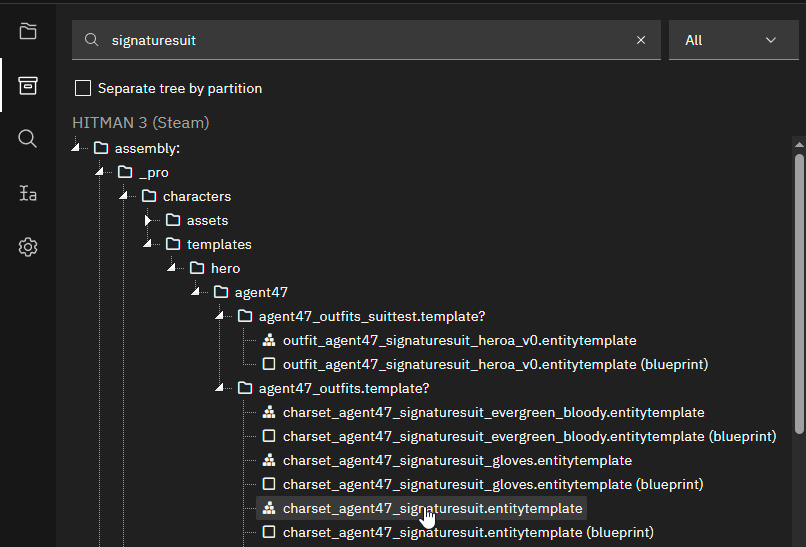
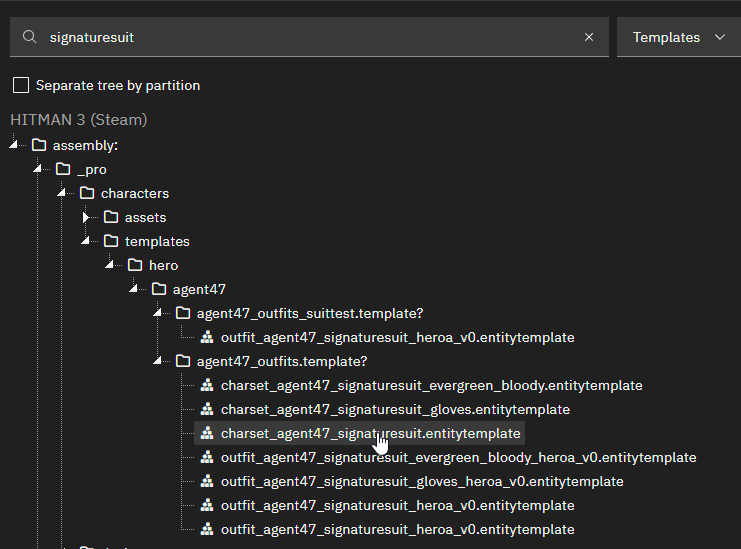
Suit modding guide: Options patches (#44)
* Fix ugly lowercase and snake case

* Set filter to Templates when searching for that...

* Options patches for suit mods

* Warn about alphabetical order with relation to patches

Changed region(s): [[0.0, 0.0, 1.0, 0.9945], [0.0931, 0.9945, 0.1552, 1.0], [0.0, 0.4351, 0.0621, 0.4662]]

diff --git a/docs/modding/hitman/guides/suitmodding/options.md b/docs/modding/hitman/guides/suitmodding/options.md
@@ -1,0 +1,120 @@
+---
+sidebar_position: 7
+description: Going into options patches for mods
+---
+
+# Options Patches
+
+## Introduction
+
+Options are a way to let the user of your mod tweak their experience. For an outfit mod this might be different colors, gloves, accessories and so on. This is achieved by segmenting different entities and patches into different content folders, and by way of options, selectively applying these.
+
+Let us take our [Street Smart](./newoutfit.md) outfit and introduce a pair of gloves to it, with an option.
+
+## Requirements
+
+First off you actually *cannot* use GlacierKit for this as it does not presently have the ability to patch custom entities, only stock game entities. You will need to download the legacy [QuickEntity Editor](https://github.com/atampy25/quickentity-editor-next/releases/latest/) to make options for your custom entities. So download it now and install it.
+
+## Preparing
+
+In your mod folder `MyName.StreetSmart`, create a new folder called `patches`. In that folder, make a folder called `gloves`. In that folder, make a folder called `leather`. In that folder, make a folder called `chunk0`.
+
+That's `patches` ➡ `gloves` ➡ `leather` ➡ `chunk0`.
+
+:::caution Alphabetical order
+
+Simple Mod Framework will apply all content folders, even those by way of options, in **alphabetical order**. This means that any patches you make to custom entities will need to be in a folder that is alphabetically *after* the base content folder. This is also good to know for patches that depend on other patches. In our case `content` comes before `patches`, if we don't take care to order the content folders properly Simple Mod Framework will error out as it cannot patch an entity that doesn't yet exist according to it.
+
+:::
+
+Next, we can prepare our manifest. Open your `manifest.json`, and make a new array called `options`.
+
+![A new options array in our manifest](/img/suitmodding/options/new_options_array.png)
+
+`options` is an array of objects, and our first option will look like this:
+
+```json
+    {
+      "group": "Gloves",
+      "name": "No gloves",
+      "type": "select",
+      "enabledByDefault": true,
+      "tooltip": "Don't use gloves."
+    }
+```
+
+Let's break it down.
+- `group` - This option is part of the "Gloves" group.
+- `name` - This option is named "No gloves".
+- `type` - This is a radio button "select" type of option. Only one **select** type of option can be active at a time in an options group. Other options are `checkbox` and `conditional`, conditionals are a little complicated but makes an option apply, as an example, if a particular mod is in the load order.
+- `enabledByDefault` - If true, the option will, you guessed it, be enabled by default.
+- `tooltip` - Some text that will display when the user mouses over the option.
+
+Another interesting property is `image` which will display an image for your option. For instance `"image": "leather_gloves.jpg"` will show the `leather_gloves.jpg` file in the mod folder.
+
+Most other base manifest keys apply to options including `contentFolders` and `blobsFolders`. You may have noticed that for this option we have not supplied one of these. This is because the base outfit doesn't have gloves, so we don't have to patch it. We only have to supply the `contentFolders` in our leather gloves option.
+
+With that let's make our second "Gloves" group option:
+
+```json
+    {
+      "group": "Gloves",
+      "name": "Leather gloves",
+      "type": "select",
+      "tooltip": "Leather gloves.",
+      "contentFolders": ["patches/gloves/leather"]
+    }
+```
+
+This is basically the same but with `contentFolders`, and `enabledByDefault` is gone. In our manifest the options will look like this.
+
+![Our options finished and present in the manifest](/img/suitmodding/options/options_done.png)
+
+## Making the Patch
+
+Now that the manifest is finished let's open QuickEntity Editor and patch our outfit.
+
+:::caution QuickEntity Editor
+
+This is legacy software and will no longer receive updates, as it has been superseded by GlacierKit. You should not use QuickEntity Editor for anything besides patching your custom entities. Keep GlacierKit open in another window if you need to browse game files or do anything else besides.
+
+:::
+
+With QuickEntity Editor open, click **Load** and choose **Load entity from file**. Navigate to your mod folder, go into `content`, `chunk0` and choose your `outfit` file.
+
+The tree will look like you're used to with GlacierKit. Expand the root outfit and click `Hands`.
+
+I already have a pair of gloves picked out I will show you here. Change the entity name from `Hands` to `Gloves_Leather`. Replace the factory and blueprint as below and introduce a `Diffuse_Color_01_Value` property with the `#2e2e2e` color. Feel free to copy below:
+
+```json
+	"factory": "[assembly:/_pro/characters/templates/_part_library/male_apparel/male_reg_apparel_hands.template?/gloves_leather.entitytemplate].pc_entitytype",
+	"blueprint": "[assembly:/_pro/characters/templates/_part_library/male_apparel/male_reg_apparel_hands.template?/gloves_leather.entitytemplate].pc_entityblueprint",
+	"properties": {
+		"Diffuse_Color_01_Value": {
+			"type": "SColorRGB",
+			"value": "#2e2e2e"
+		}
+	}
+```
+
+The new entity should look like below.
+
+![The Hands entity altered in QuickEntity Editor](/img/suitmodding/options/qne_edited.png)
+
+That's all we need to do, so click **Save as** and choose **Save as patch file**. Navigate to your mod folder, go into `patches` ➡ `gloves` ➡ `leather` ➡ `chunk0`. Save as `leather_gloves`.
+
+If you want to make more patches after this it's safest to re-load your outfit by clicking **Load** and choose **Load entity from file** after you save each patch.
+
+## Applying and testing
+
+Open Simple Mod Framework now and enable your mod in your load order if you haven't. Then go into **Configure mods** and make sure **Leather gloves** is picked. Apply your mod after this.
+
+![Picking the option in SMF](/img/suitmodding/options/choose_option.png)
+
+Now start the game and double check that the leather gloves have applied.
+
+![47 wearing his leather gloves.](/img/suitmodding/options/gloves_applied.jpg)
+
+If you want you can try turning off the leather gloves option, re-applying your mod and double checking that you have normal hands when the option is not selected.
+
+By leveraging the options system you can introduce wide swathes of configuration to your mods!

diff --git a/docs/modding/hitman/guides/suitmodding/newoutfit.md b/docs/modding/hitman/guides/suitmodding/newoutfit.md
@@ -142,7 +142,7 @@ Feel free to paste the following into your manifest to get started.
 
 ## The charset
 
-We carry on by making the suit's charset. We can use IOI's work as a base for this. In the game files tab search for `signaturesuit`. Under the `characters` folder you can minimize `assets` as we don't want anything in there.
+We carry on by making the suit's charset. We can use IOI's work as a base for this. In the game files tab, switch the filter from **All** to **Templates**. Then search for `signaturesuit`. Under the `characters` folder you can minimize `assets` as we don't want anything in there.
 
 ![Searching for the signature suit charset](/img/suitmodding/newoutfit/search_charset.png)
 

diff --git a/docs/modding/hitman/guides/setting_the_stage.md b/docs/modding/hitman/guides/setting_the_stage.md
@@ -3,6 +3,8 @@ sidebar_position: 0
 description: Hitman 3 modding basics
 ---
 
+# Setting the Stage
+
 ## Background
 
 The Glacier 2 Engine is IO Interactive's proprietary custom game engine designed to run Hitman games. What is known about the engine is a result of reverse-engineering the files provided to the community via the games themselves.
